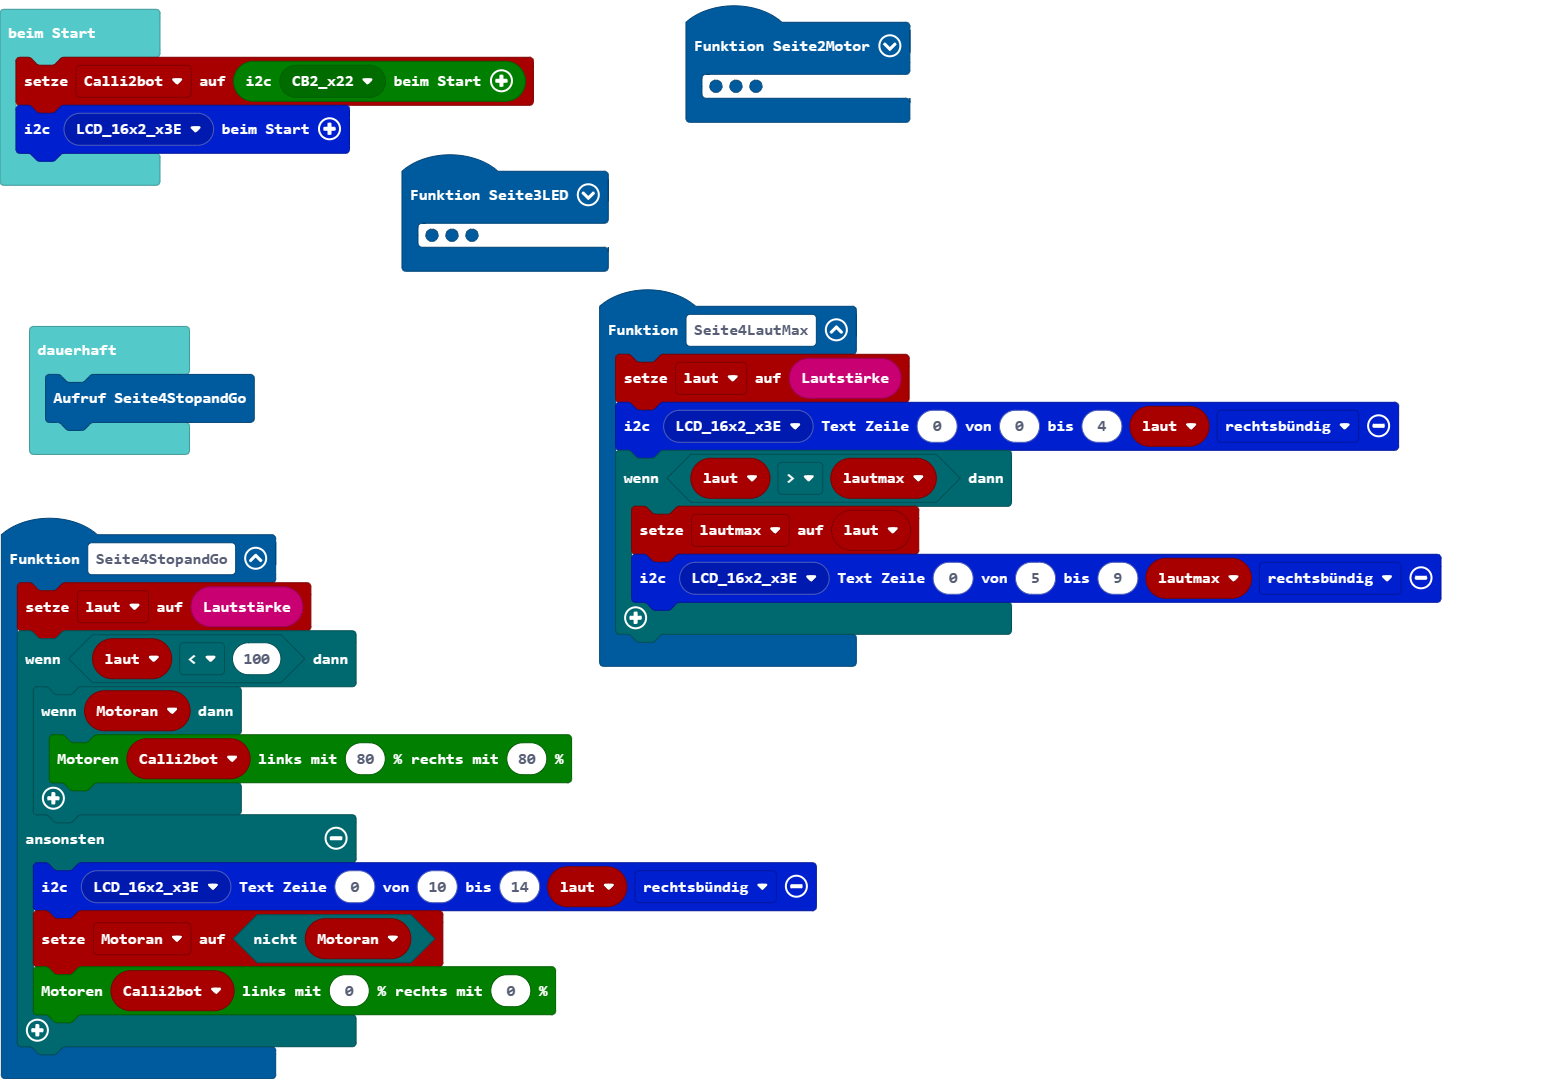
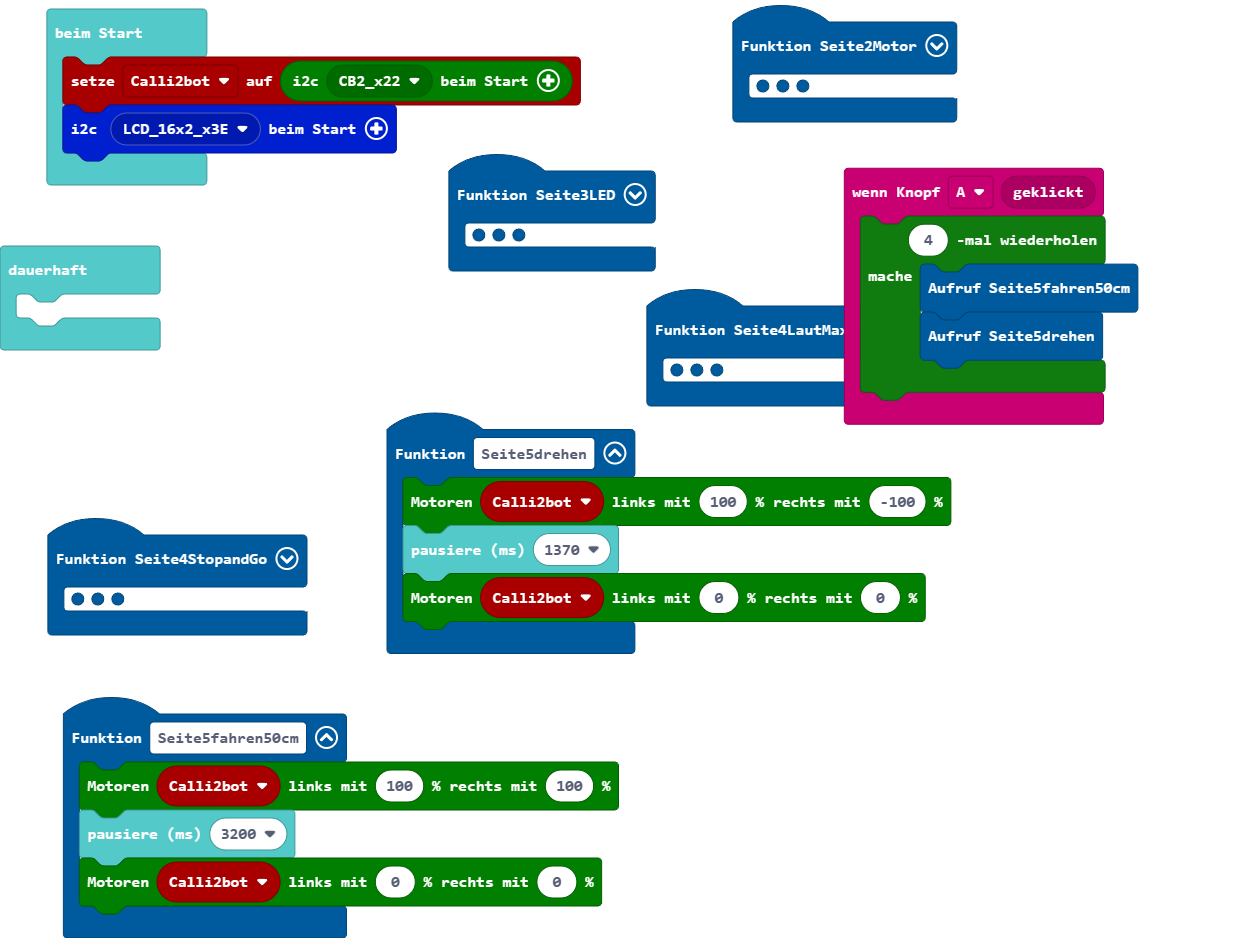
Aktualisiere main.blocks, main.ts

diff --git a/main.ts b/main.ts
@@ -1,3 +1,13 @@
+function Seite5fahren50cm () {
+    Calli2bot.setMotoren2(100, 100)
+    basic.pause(3200)
+    Calli2bot.setMotoren2(0, 0)
+}
+function Seite5drehen () {
+    Calli2bot.setMotoren2(100, -100)
+    basic.pause(1370)
+    Calli2bot.setMotoren2(0, 0)
+}
 function Seite3LED () {
     Calli2bot.setRgbLed3(0xff0000, true, false, false, false, false)
     basic.pause(100)
@@ -24,6 +34,12 @@ function Seite4StopandGo () {
         Calli2bot.setMotoren2(0, 0)
     }
 }
+input.onButtonEvent(Button.A, input.buttonEventClick(), function () {
+    for (let index = 0; index < 4; index++) {
+        Seite5fahren50cm()
+        Seite5drehen()
+    }
+})
 function Seite2Motor () {
     Calli2bot.setMotoren2(100, 100)
     calli2bot.pause(calli2bot.calli2bot_ePause(calli2bot.ePause.p1))
@@ -46,5 +62,5 @@ let Calli2bot: calli2bot.Calli2bot = null
 Calli2bot = calli2bot.beimStart(calli2bot.calli2bot_eADDR(calli2bot.eADDR.CB2_x22))
 lcd16x2rgb.initLCD(lcd16x2rgb.lcd16x2_eADDR(lcd16x2rgb.eADDR_LCD.LCD_16x2_x3E))
 basic.forever(function () {
-    Seite4StopandGo()
+	
 })
